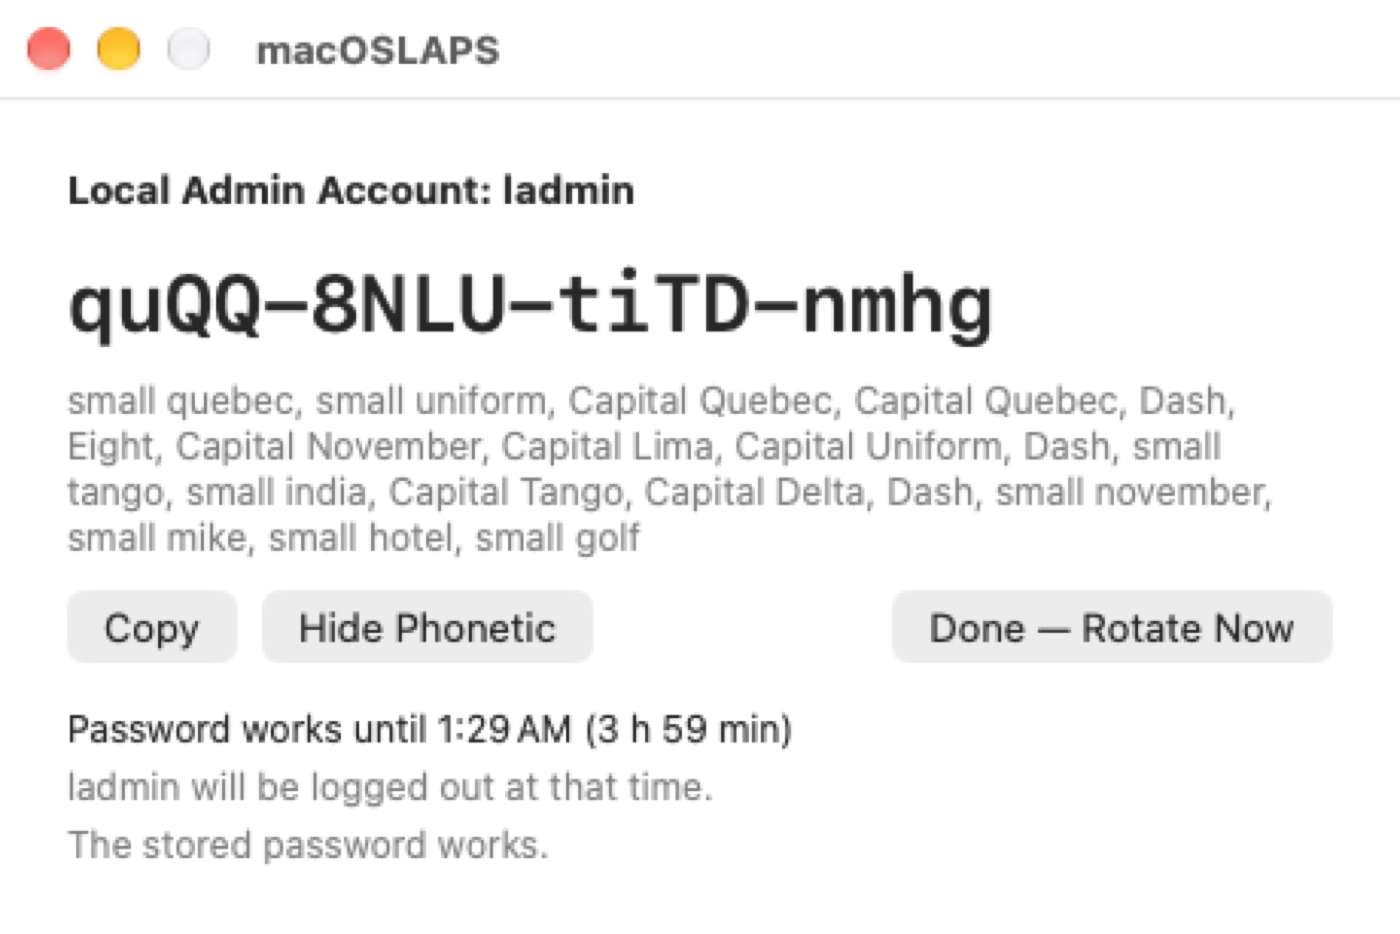
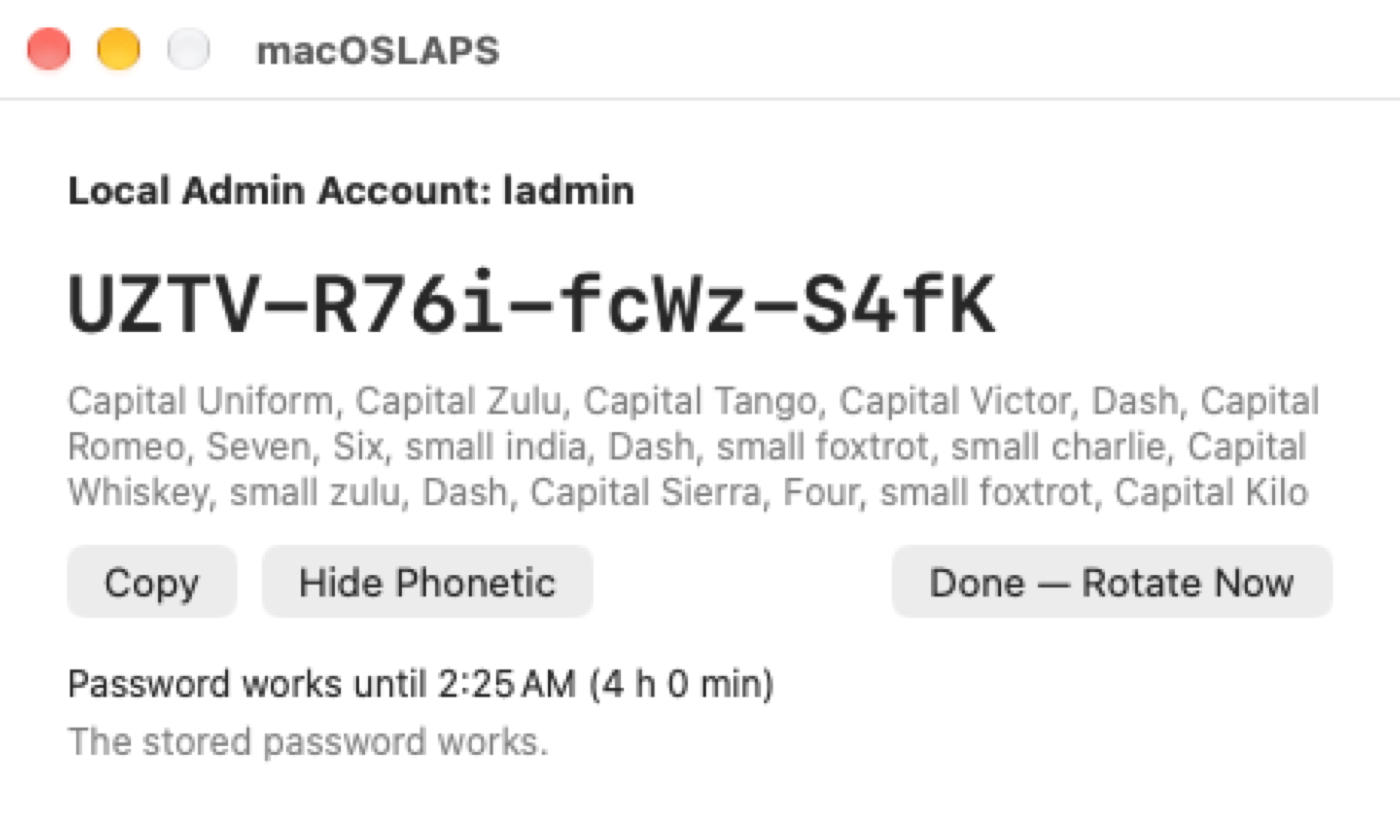
Release notes: new reveal screenshot without the logout line
The window no longer warns of a logout when the managed admin isn't
signed in; replace the screenshot with one from the macOS 27 runner and
say when the warning appears.

Claude-Session: https://claude.ai/code/session_01DV1o2nTN9YJmw9Wy6R6f9w

diff --git a/.github/release-notes/4.0.0.md b/.github/release-notes/4.0.0.md
@@ -96,7 +96,7 @@ It fails closed: if `EscrowCertificates` is set but none of them is usable, `-es
 3. On the Mac, signed in as the user (no admin rights needed), they open **macOSLAPS** from Applications, type the code and an optional reason or ticket number, and get the password in large type, with a phonetic spelling for reading it over the phone ("Capital Alfa, small bravo, Seven…"). **Copy** clears the clipboard after 60 seconds.
 4. They use it to elevate: an authentication prompt, System Settings, an installer.
 5. A menu bar item counts down the time left (`ladmin | 3:42`, orange in the last 15 minutes). Notifications go out when the password is revealed, 15 minutes before it changes, and when it has changed. **Done — Rotate Now** ends the grace period early. The same code keeps working until then, so re-elevating needs no new code.
-6. When `RevealGracePeriod` ends (default 4 hours, 0–24), the managed admin is logged out if it's signed in (`RevealAction rotateAndLogout`, the default; `rotate` only rotates), the password rotates, and a new code goes to the MDM at its next inventory.
+6. When `RevealGracePeriod` ends (default 4 hours, 0–24), the managed admin is logged out if it's signed in (`RevealAction rotateAndLogout`, the default; `rotate` only rotates; the window and menu bar warn of this only while the admin is signed in), the password rotates, and a new code goes to the MDM at its next inventory.
 
 **What the technician sees** (captured by CI on a macOS 27 runner; the password belongs to a throwaway VM):
 
